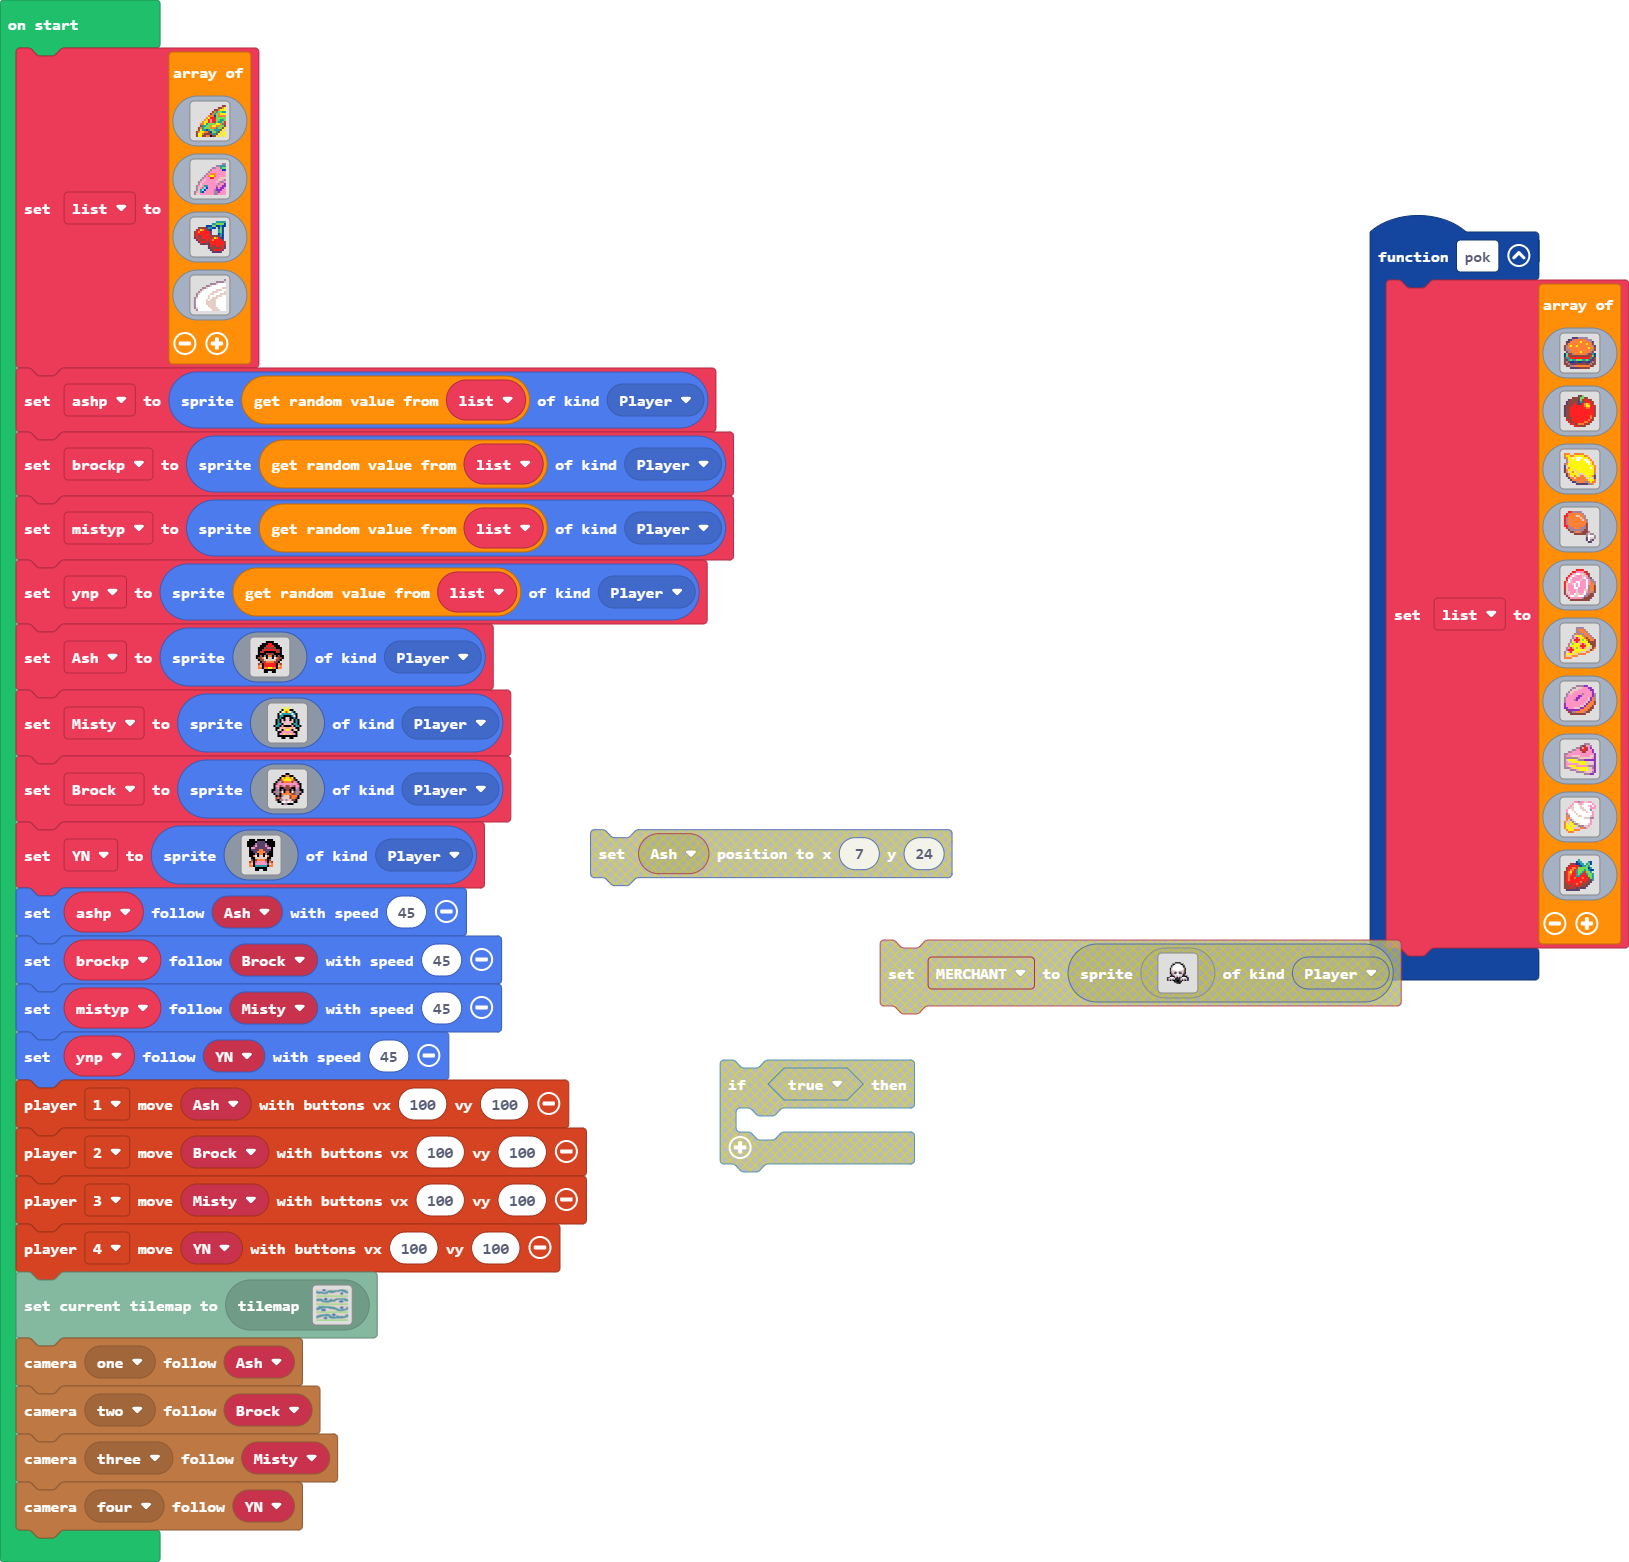
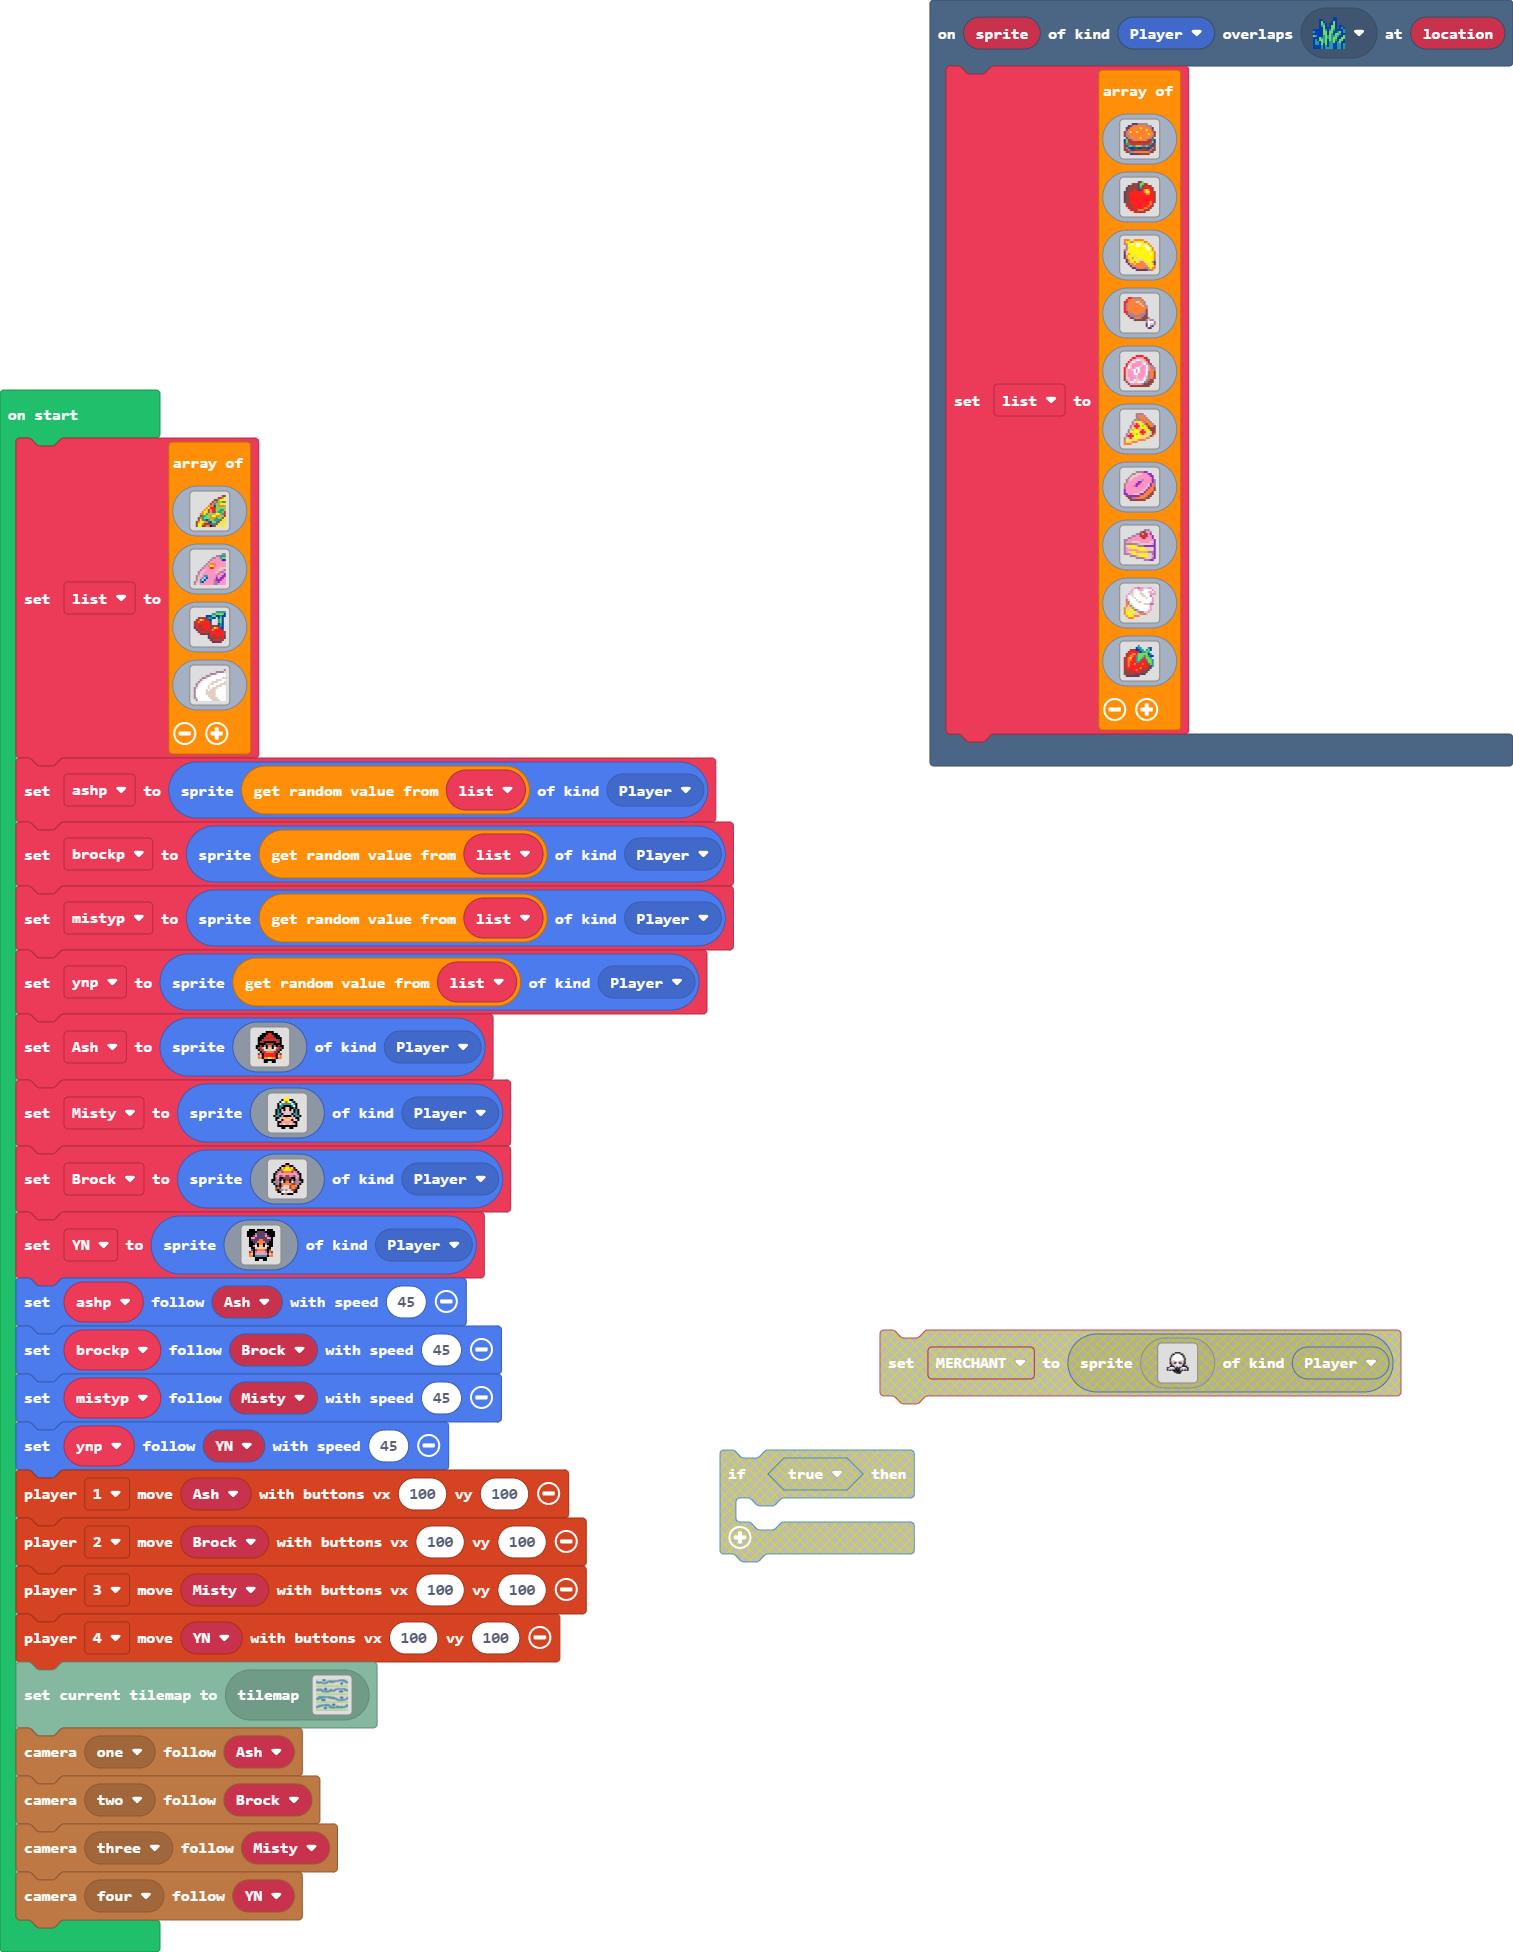
Update main.blocks, main.ts

diff --git a/main.ts b/main.ts
@@ -1,4 +1,4 @@
-function pok () {
+scene.onOverlapTile(SpriteKind.Player, sprites.swamp.swampTile1, function (sprite, location) {
     list = [
     img`
         . . . . c c c b b b b b . . . . 
@@ -181,7 +181,7 @@ function pok () {
         . c c c c c c c . . . . . . . . 
         `
     ]
-}
+})
 let list: Image[] = []
 list = [
 img`
